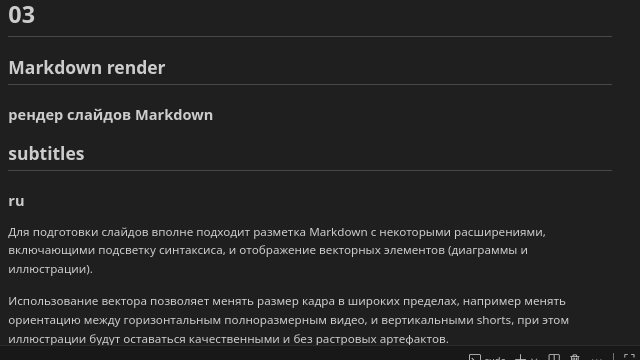
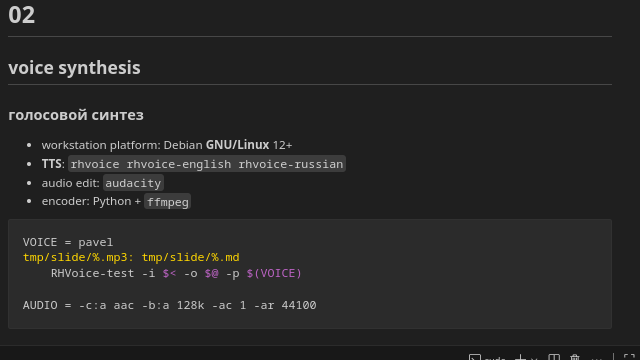
.

diff --git a/doc/slide/slide.py b/doc/slide/slide.py
@@ -8,7 +8,7 @@ mp4 = 'tmp/slide/mp4.mp4'
 
 # video fragments
 fragment = {
-    '  ': {'png': 'doc/splash.png', 'mp3': 'doc/dos.mp3', } # splashscreen
+    '00': {'png': 'doc/splash.png', 'mp3': 'doc/dos.mp3', } # splashscreen
 }
 
 # splash = ffmpeg.input('doc/splash.png', loop=1, framerate=1)
@@ -23,46 +23,51 @@ for i in filter(lambda name: re.match(r'\d+.(md|png)', name), os.listdir('doc/sl
     if name not in fragment.keys(): fragment[name] = {}
     match ext:
         case 'md':
-            with open(f'tmp/slide/{name}.md','w') as w:
-                with open(f'doc/slide/{name}.md','r') as r:
-                    print(r.read().split('# ru')[-1],file=w)
+            with open(f'tmp/slide/{name}.md', 'w') as w:
+                with open(f'doc/slide/{name}.md', 'r') as r:
+                    print(r.read().split('# ru')[-1], file=w)
             fragment[name]['mp3'] = f'tmp/slide/{name}.mp3'
-            os.system(f'make tmp/slide/{name}.mp3')
+            mp3 = f'tmp/slide/{name}.mp3'
+            if not os.path.exists(mp3): os.system(f'make {mp3}')
         case 'png':
             fragment[name]['png'] = f'doc/slide/{name}.png'
+
+def slide(k, video, audio, dura):
+    video = ffmpeg.input(video, loop=1, framerate=1)
+    audio = ffmpeg.input(audio)
+
+    stream = ffmpeg.output(
+        video,
+        audio,
+        f'tmp/slide/{k}.mp4',
+        t=dura,
+        **{
+            # video codec
+            'c:v': 'libx264',
+            'pix_fmt': 'yuv420p',
+            'vf': 'scale=1280:720,fps=1',
+            'r': 1,
+            'preset': 'ultrafast',
+            'crf': 28,
+            # audio codec
+            'c:a': 'aac',
+            'b:a': '128k',
+            'ac': 1,
+            'ar': 44100,
+            'tune': 'stillimage',
+            # Use 'shortest' to stop when the audio ends
+            # 'shortest': None,
+        }
+    )
+
+    stream = ffmpeg.overwrite_output(stream)
+    ffmpeg.run(stream)
 
 for k in sorted(fragment.keys()):
     png = fragment[k]['png']
     mp3 = fragment[k]['mp3']
-    print(k,png,mp3)
     probe = ffmpeg.probe(mp3)
-    # dura = float(probe['streams'][0]['duration'])
-    # print(k,png,mp3,dura)
+    dura = float(probe['streams'][0]['duration'])
+    slide(k, png, mp3, dura)
 
-stream = ffmpeg.output(
-    splash,
-    dos,
-    mp4,
-    t=dura,
-    **{
-        # video codec
-        'c:v': 'libx264',
-        'pix_fmt': 'yuv420p',
-        'vf': 'scale=1280:720,fps=1',
-        'r': 1,
-        'preset': 'ultrafast',
-        'crf': 28,
-        # audio codec
-        'c:a': 'aac',
-        'b:a': '128k',
-        'ac': 1,
-        'ar': 44100,
-        'tune': 'stillimage',
-        # Use 'shortest' to stop when the audio ends
-        # 'shortest': None,
-    }
-)
-
-stream = ffmpeg.overwrite_output(stream)
-ffmpeg.run(stream)
-os.system(f'vlc {mp4} --fullscreen')
+# os.system(f'vlc {mp4} --fullscreen')

diff --git a/doc/slide/01.md b/doc/slide/01.md
@@ -1,36 +1,52 @@
 # 01
-## technical details for automated video baking
-### технические детали для автоматизированной генерации видео
+## project metainformation
+### метаинформация о проекте
 
-- slide content: **Markdown**
-    - syntax coloring (Python, FORTH, C++)
-    - diagrams: **mermaid**
-- automation sсripts: **Python**
-- voice synthesis: **[Voicegenerator](https://voicegenerator.io/)**
-- YouTube video config:
-    - cheap/old mobile phone: 1280 x 720 landscape 5"
-    - container: MP4
-    - video: H.264 HD/720p high yuv420 1..15fps Rec.709
-    - audio: AAC-LC 44.100kHz 128kbps (mono)
+```python
+APP     = 'FORTH'
+TITLE   = 'minimal script language model in Python'
+AUTHOR  = 'Dmitry Ponyatov'
+EMAIL   = 'dponyatov@gmail.com'
+LICENSE = 'MIT'
+VERSION = '0.0.1'
+YEAR    =  2025
+GITHUB  = f'https://github.com/ponyatov/{APP}'
+```
+
+- https://github.com/ponyatov/FORTH/tree/python
+- https://rutube.ru/plst/1226139
 
 ## subtitles
 ### ru
 
-Этот курс был создан с использованием инструментов для автоматической генерации
-видео- и аудиоконтента. Содержимое каждого слайда задаётся в виде текстовых
-описаний в форматах типа Markdown, mermaid, и фрагментах исходного кода. Процесс
-сборки видео автоматизирован с помощью Python-скриптов. Это позволяет быстро
-обновлять контент, вносить правки и генерировать новые версии уроков.
+Добро пожаловать в курс по созданию собственного языка программирования!
 
-Озвучка курса создана с использованием синтеза речи. Это позволяет получить
-аудиосопровождение материала, хорошо воспринимаемое на слух, без шумов, фефектов
-фикции, дикторских косяков, проблем с микрофонами и ручной пост-обработкой
-аудио.
+Мы будем создавать язык с нуля, используя Python как инструментальный язык, и
+взяв за основу элегантную модель языка Форт в качестве виртуальной машины.
 
-Кроме того, голосовой синтез позволяет легко корректировать текст, переводить
-его на любой язык, и включать текстовые субтитры.
+Сначала мы пошагово построим минимальное языковое ядро — настолько компактное,
+что вы сможете легко переписать его на любом другом языке: будь то C++,
+JavaScript, WebAssembly, всего за пару вечеров. Это ключевой принцип: чем меньше
+ядро, тем проще его переделать или портировать на новые платформы.
 
-Готовые видео публикуются на YouTube и других видеоплатформах, для каждой из
-которых можно настроить оптимальные размеры, параметры видео- и аудиокодеков, и
-собрать варианты в разном разрешении для просмотра на телефоне, или на большом
-экране.
+После того как базовое ядро заработает, мы научимся расширять его собственными
+средствами -- создавая новые функции и возможности, которые будут относительно
+независимы от конкретной реализации ядра, и легко переносимыми между разными
+платформами.
+
+Для сложных в техническом плане компонентов будут использованы готовые
+инструменты и библиотеки. Это позволит не перегружать курс излишними деталями, и
+позволит любому студенту создать работающий прототип своего скриптового языка с
+минимальными усилиями.
+
+Те, кто захочет глубже погрузиться в тонкости синтаксического анализа,
+разработки компиляторов или генерации кода, смогут это сделать самостоятельно,
+или присоединиться к проекту и сделать дополнения к курсу с разбором деталей.
+
+К концу курса у вас будет реальный, работающий язык, который вы создали своими
+руками, и знаете все его внутренности. С точки зрения практического применения,
+вы сможете легко адаптировать этот язык для применения в нужной области,
+например для скриптов игрового движка, или как командный интерфейс для
+устройства на базе микроконтроллера. При этом вам не нужно будет полагаться на
+каких-то сторонних разработчиков, так как вы сами можете легко добавить, убрать
+или поменять любой фрагмент системы.

diff --git a/doc/slide/02.md b/doc/slide/02.md
@@ -1,36 +1,36 @@
 # 02
-## voice synthesis
-### голосовой синтез
+## technical details for automated video baking
+### технические детали для автоматизированной генерации видео
 
-- workstation platform: Debian **GNU/Linux** 12+
-- **TTS**: `rhvoice rhvoice-english rhvoice-russian`
-- audio edit: `audacity`
-- encoder: Python + `ffmpeg`
-
-```make
-VOICE = pavel
-tmp/slide/%.mp3: tmp/slide/%.md
-	RHVoice-test -i $< -o $@ -p $(VOICE)
-
-AUDIO = -c:a aac -b:a 128k -ac 1 -ar 44100
-```
+- slide content: **Markdown**
+    - syntax coloring (Python, FORTH, C++)
+    - diagrams: **mermaid**
+- automation sсripts: **Python**
+- voice synthesis: **[Voicegenerator](https://voicegenerator.io/)**
+- YouTube video config:
+    - cheap/old mobile phone: 1280 x 720 landscape 5"
+    - container: MP4
+    - video: H.264 HD/720p high yuv420 1..15fps Rec.709
+    - audio: AAC-LC 44.100kHz 128kbps (mono)
 
 ## subtitles
 ### ru
 
-Голосовой синтез -- самая проблемная тема для подготовки учебных материалов.
-Плохой TTS-движок или неправильные настройки сразу слышно, и слушателю требуется
-заметное время чтобы привыкнуть к звучанию рободиктора, и сосредоточиться
-собственно на материале.
+Этот курс был создан с использованием инструментов для автоматической генерации
+видео- и аудиоконтента. Содержимое каждого слайда задаётся в виде текстовых
+описаний в форматах типа Markdown, mermaid, и фрагментах исходного кода. Процесс
+сборки видео автоматизирован с помощью Python-скриптов. Это позволяет быстро
+обновлять контент, вносить правки и генерировать новые версии уроков.
 
-Дополнительные проблемы доставляет ограниченность синтаксиса входного языка:
-большинство бесплатных библиотек и TTS-оболочек практически не даёт возможности
-точной фонетической транскрипции: неправильные ударения, кривое произношение
-редко употребимых слов и терминов режет слух.
+Озвучка курса создана с использованием синтеза речи. Это позволяет получить
+аудиосопровождение материала, хорошо воспринимаемое на слух, без шумов, фефектов
+фикции, дикторских косяков, проблем с микрофонами и ручной пост-обработкой
+аудио.
 
-С другой стороны, если бы TTS принимал фонетическую запись, к каждому слайду
-пришлось бы готовить две или три копии текста: точную фонетику, текст для
-субтитров, и текст для печатной версии.
+Кроме того, голосовой синтез позволяет легко корректировать текст, переводить
+его на любой язык, и включать текстовые субтитры.
 
-Так что пока в текущей версии курса будем наслаждаться акцентом Говорилки, и
-присылать советы по улучшениям в настройках и библиотеках.
+Готовые видео публикуются на YouTube и других видеоплатформах, для каждой из
+которых можно настроить оптимальные размеры, параметры видео- и аудиокодеков, и
+собрать варианты в разном разрешении для просмотра на телефоне, или на большом
+экране.

diff --git a/doc/slide/03.md b/doc/slide/03.md
@@ -1,15 +1,36 @@
 # 03
-## Markdown render
-### рендер слайдов Markdown
+## voice synthesis
+### голосовой синтез
+
+- workstation platform: Debian **GNU/Linux** 12+
+- **TTS**: `rhvoice rhvoice-english rhvoice-russian`
+- audio edit: `audacity`
+- encoder: Python + `ffmpeg`
+
+```make
+VOICE = pavel
+tmp/slide/%.mp3: tmp/slide/%.md
+	RHVoice-test -i $< -o $@ -p $(VOICE)
+
+AUDIO = -c:a aac -b:a 128k -ac 1 -ar 44100
+```
 
 ## subtitles
 ### ru
 
-Для подготовки слайдов вполне подходит разметка Markdown с некоторыми
-расширениями, включающими подсветку синтаксиса, и отображение векторных
-элементов (диаграммы и иллюстрации).
+Голосовой синтез -- самая проблемная тема для подготовки учебных материалов.
+Плохой TTS-движок или неправильные настройки сразу слышно, и слушателю требуется
+заметное время чтобы привыкнуть к звучанию рободиктора, и сосредоточиться
+собственно на материале.
 
-Использование вектора позволяет менять размер кадра в широких пределах, например
-менять ориентацию между горизонтальным полноразмерным видео, и вертикальными
-shorts, при этом иллюстрации будут оставаться качественными и без растровых
-артефактов.
+Дополнительные проблемы доставляет ограниченность синтаксиса входного языка:
+большинство бесплатных библиотек и TTS-оболочек практически не даёт возможности
+точной фонетической транскрипции: неправильные ударения, кривое произношение
+редко употребимых слов и терминов режет слух.
+
+С другой стороны, если бы TTS принимал фонетическую запись, к каждому слайду
+пришлось бы готовить две или три копии текста: точную фонетику, текст для
+субтитров, и текст для печатной версии.
+
+Так что пока в текущей версии курса будем наслаждаться акцентом Говорилки, и
+присылать советы по улучшениям в настройках и библиотеках.

diff --git a/doc/slide/04.md b/doc/slide/04.md
@@ -1,0 +1,15 @@
+# 04
+## Markdown render
+### рендер слайдов Markdown
+
+## subtitles
+### ru
+
+Для подготовки слайдов вполне подходит разметка Markdown с некоторыми
+расширениями, включающими подсветку синтаксиса, и отображение векторных
+элементов (диаграммы и иллюстрации).
+
+Использование вектора позволяет менять размер кадра в широких пределах, например
+менять ориентацию между горизонтальным полноразмерным видео, и вертикальными
+shorts, при этом иллюстрации будут оставаться качественными и без растровых
+артефактов.
